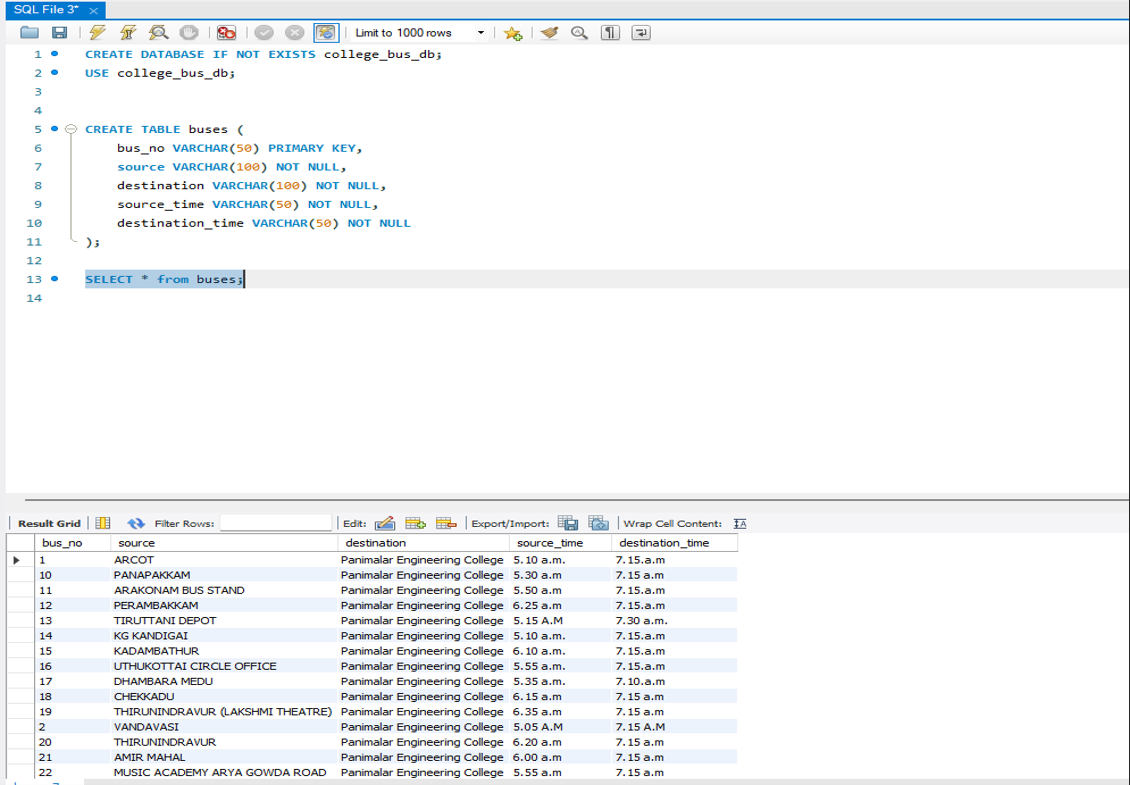
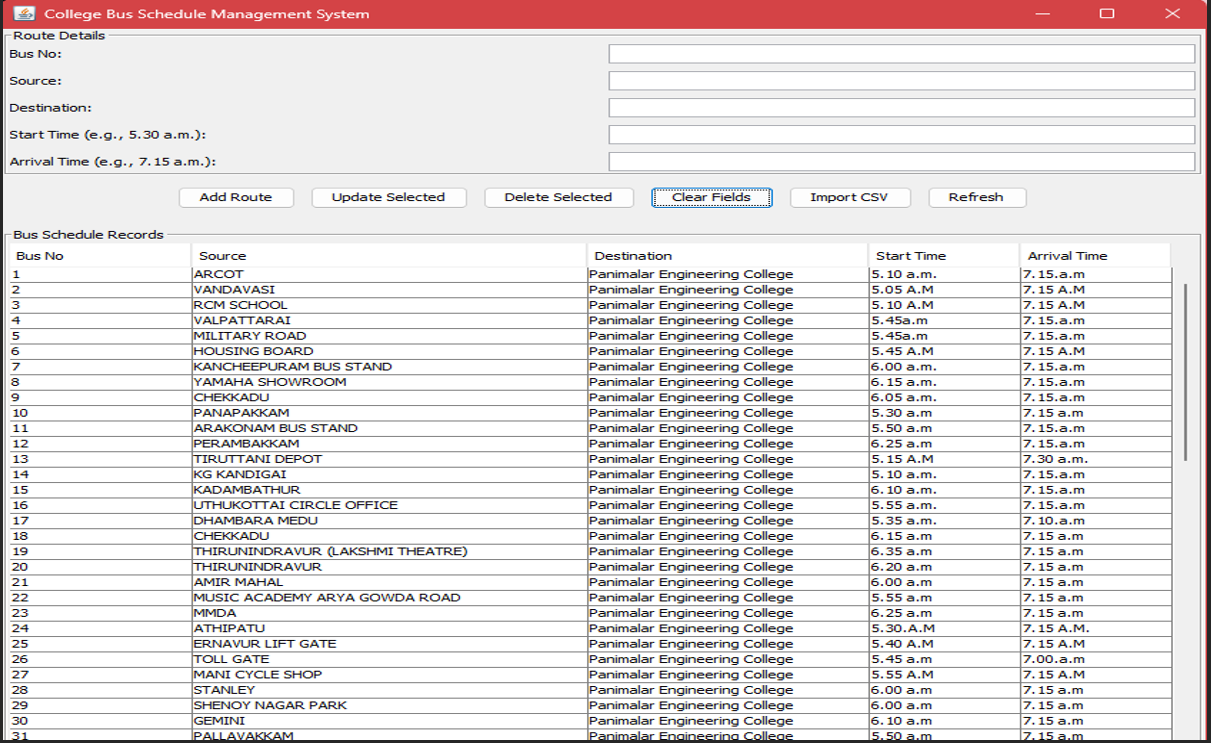
Add Output Images

diff --git a/README.md b/README.md
@@ -40,6 +40,10 @@ A simple **College Bus Management System** developed using **Java Swing, JDBC, a
 
 ![CSV Import](output-images/output-5.png)
 
+## 6.MYSQL Workbench
+
+![MySQL](output-images/output-6.png)
+
 
 ## Technologies Used
 
